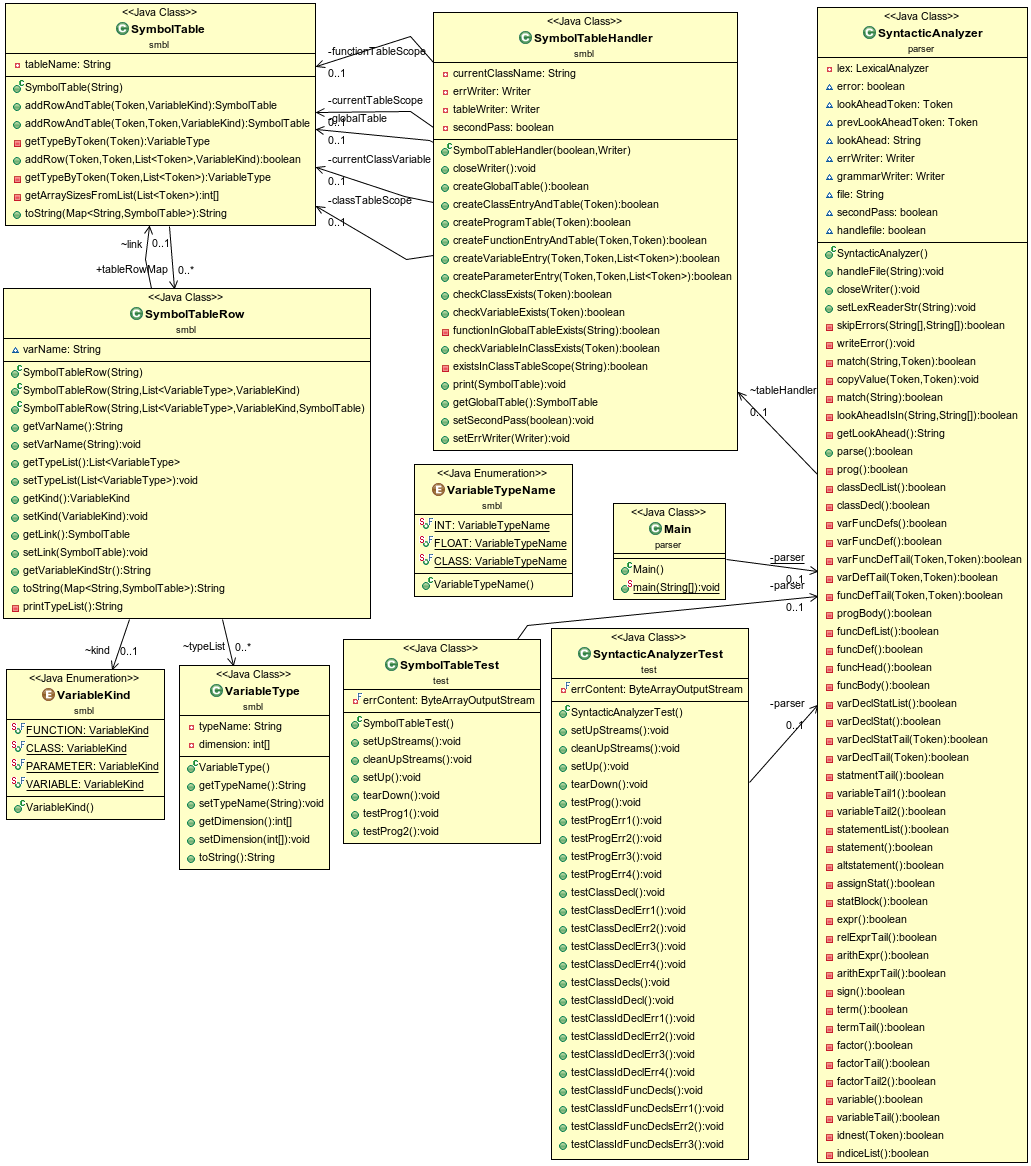
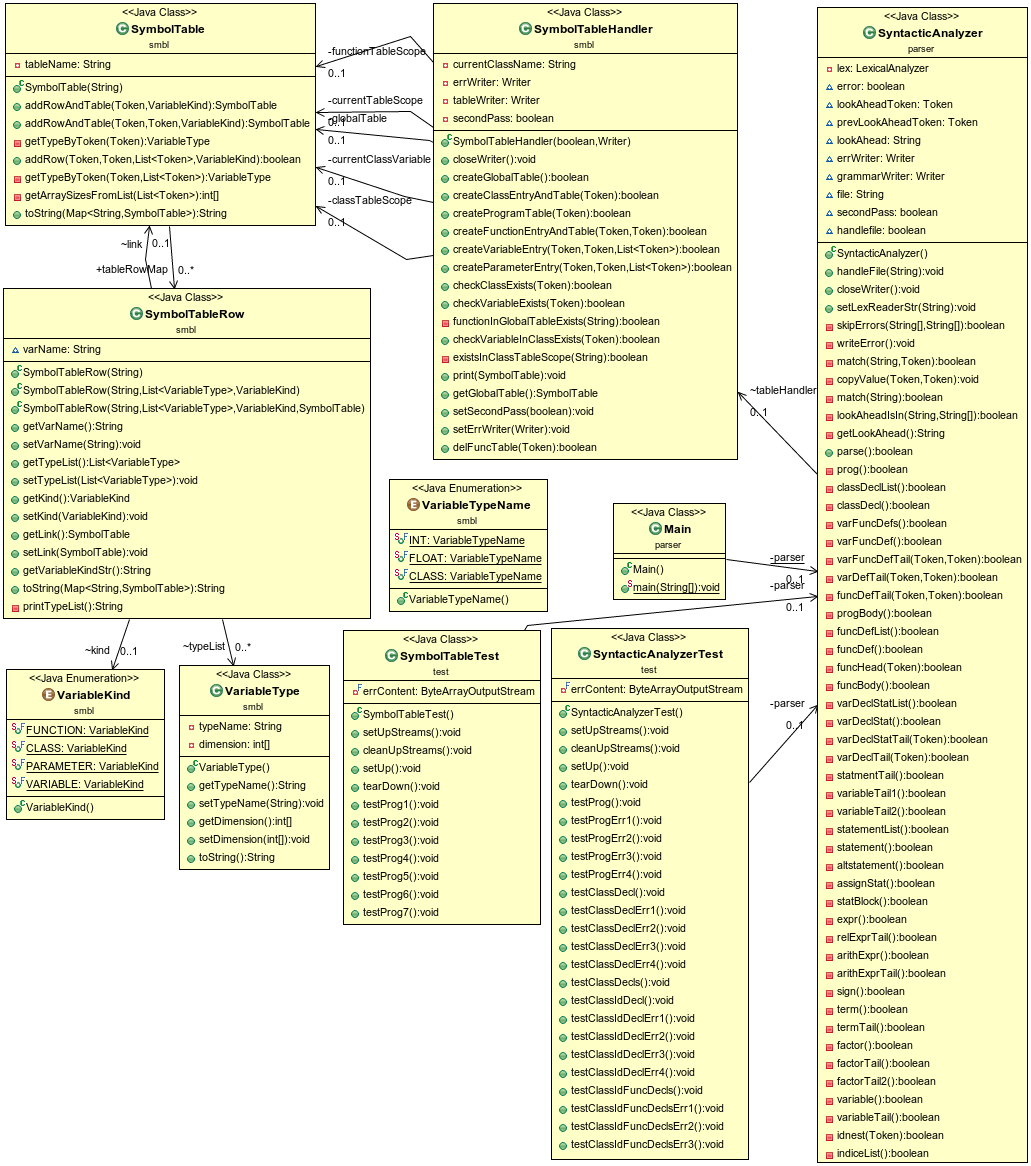
Deleting function tables

Changed region(s): [[0.3104, 0.0, 0.7139, 0.8027], [0.8691, 0.5557, 0.9311, 0.5866]]

diff --git a/SyntacticAnalyzer/src/parser/SyntacticAnalyzer.java b/SyntacticAnalyzer/src/parser/SyntacticAnalyzer.java
@@ -340,7 +340,7 @@ public class SyntacticAnalyzer {
 					&& match(Constants.CLOSEPAR)
 					&& funcBody()
 					&& match(Constants.SEMICOLON)
-					&& tableHandler.deleteTable(id)){
+					&& tableHandler.delFuncTable(id)){
 				if(secondPass) grammarWriter.write("funcDefTail	-> '(' fParams ')' funcBody ';'\n");
 			} else {
 				error = true;
@@ -407,7 +407,7 @@ public class SyntacticAnalyzer {
 			if(funcHead(funcId) 
 					&& funcBody() 
 					&& match(Constants.SEMICOLON)
-					&& tableHandler.deleteTable(funcId)){
+					&& tableHandler.delFuncTable(funcId)){
 				if(secondPass) grammarWriter.write("funcDef -> funcHead funcBody ';'\n");
 			} else {
 				error = true;

diff --git a/SyntacticAnalyzer/src/smbl/SymbolTableHandler.java b/SyntacticAnalyzer/src/smbl/SymbolTableHandler.java
@@ -266,9 +266,8 @@ public class SymbolTableHandler {
 		this.errWriter = errWriter;
 	}
 
-	public boolean deleteTable(Token funcId) throws IOException {
+	public boolean delFuncTable(Token funcId) throws IOException {
 		if(secondPass && functionTableScope.tableRowMap.containsKey(funcId.getValue())){
-			System.out.println("Deleting table for " + funcId);
 			SymbolTableRow row = functionTableScope.tableRowMap.get(funcId.getValue());
 			print(row.getLink());
 			row.setLink(null);
